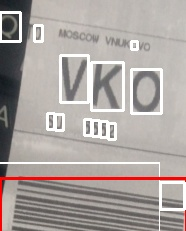
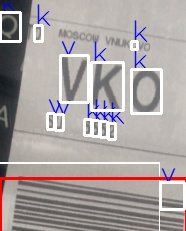
--all

diff --git a/rec.py b/rec.py
@@ -3,6 +3,8 @@ import argparse
 import cv2
 import base
 
+base_digite_s_letter=base.base_digite_s_letter
+
 def index_min(array, n): #массив и номер столбца
     array_new=[]
     for i in range(len(array)):
@@ -14,6 +16,8 @@ def index_min(array, n): #массив и номер столбца
 #image = cv2.imread('barcode_01.jpg')
 image = cv2.imread('test2.jpg')
 
+im_from_b = np.zeros((20, 20))
+
 
 final_wide = 600
 r = float(final_wide) / image.shape[1]
@@ -24,30 +28,12 @@ gray = cv2.cvtColor(image, cv2.COLOR_BGR2GRAY)
 gray = cv2.medianBlur(gray,3)
 
 
-#gradX = cv2.Sobel(gray, cv2.CV_64F,1,0,ksize=-1)
-#gradY = cv2.Sobel(gray, cv2.CV_64F,0,1,ksize=-1)
-#gradient = cv2.subtract(gradX, gradY)
-#gradient = cv2.convertScaleAbs(gradient)
-
-#blurred = cv2.blur(gradient, (9, 9))
-#(_,thresh) = cv2.threshold(blurred, 225, 255, cv2.THRESH_BINARY)
-#kernel = cv2.getStructuringElement(cv2.MORPH_RECT, (21, 7))
-#closed = cv2.morphologyEx(thresh, cv2.MORPH_CLOSE, kernel)
-
-
-#closed = cv2.erode(closed, None, iterations = 4)
-#closed = cv2.dilate(closed, None, iterations = 4)
 
 
 th3 = cv2.adaptiveThreshold(gray,255,cv2.ADAPTIVE_THRESH_MEAN_C,\
             cv2.THRESH_BINARY_INV,11,7)
 th2 = cv2.adaptiveThreshold(gray,255,cv2.ADAPTIVE_THRESH_GAUSSIAN_C,\
             cv2.THRESH_BINARY_INV,11,7)
-#edge = cv2.Canny (gray, 200,200,11)
-#cv2.imwrite("Canny.jpg", edge)
-
-#th3 = cv2.erode(th3, None, iterations = 1)
-#th3 = cv2.dilate(th3, None, iterations = 2)
 
 
 
@@ -106,8 +92,34 @@ for array_big in cnts_big:
 			if w_info>0.2*h_info and w_info<0.9*h_info and w_info>4 and h_info>4:
 				im_digit_letter = th3_info[y_info:y_info+h_info, x_info:x_info+w_info]   # переменная (фото которое нужно распознавать
 				im_digit_letter_res=cv2.resize(im_digit_letter,(20,20))
+				im_digit_letter_res_ar=np.array(im_digit_letter_res)
+				cv2.imwrite("testtest.jpg",im_digit_letter_res)
+
 				# тут в будущем будет функция для прогонк через нейронку
 				
+				for l in range(len(base_digite_s_letter)):
+					
+					im_from_base=cv2.imread(base_digite_s_letter[l][1])
+					
+					
+					im_from_base = cv2.cvtColor(im_from_base, cv2.COLOR_BGR2GRAY)
+					im_from_base_ar=np.array(im_from_base)
+					#cv2.imwrite("testtest.jpg",im_from_base)
+					razn=0
+					for y in range(20):
+						for x in range(20):
+							pixl1 = im_digit_letter_res_ar[y][x]
+							pixl2 = im_from_base_ar[y][x]
+							razn= razn + abs(pixl1 - pixl2)
+							
+					print(razn)		
+					base_digite_s_letter[l][2]=razn
+					#print(razn)
+				#print(base_digite_s_letter)
+				minimym, index = index_min(base_digite_s_letter,3)
+				font = cv2.FONT_HERSHEY_SIMPLEX
+				cv2.putText(get_im_ar,base_digite_s_letter[index][0],(x_info,y_info), font, 1,(255,0,0),1,cv2.LINE_AA)
+
 
 				cv2.rectangle(get_im_ar,(x_info,y_info),(x_info+w_info,y_info+h_info),(255,255,255),2)
 				cv2.imwrite("info/"+str(b) +".jpg", get_im_ar)

diff --git a/base.py b/base.py
@@ -18,3 +18,4 @@ base_digite_s_letter=[["v","base/v.0.jpg",0],
 			
 				
 			]
+#print (base_digite_s_letter[0][1])
